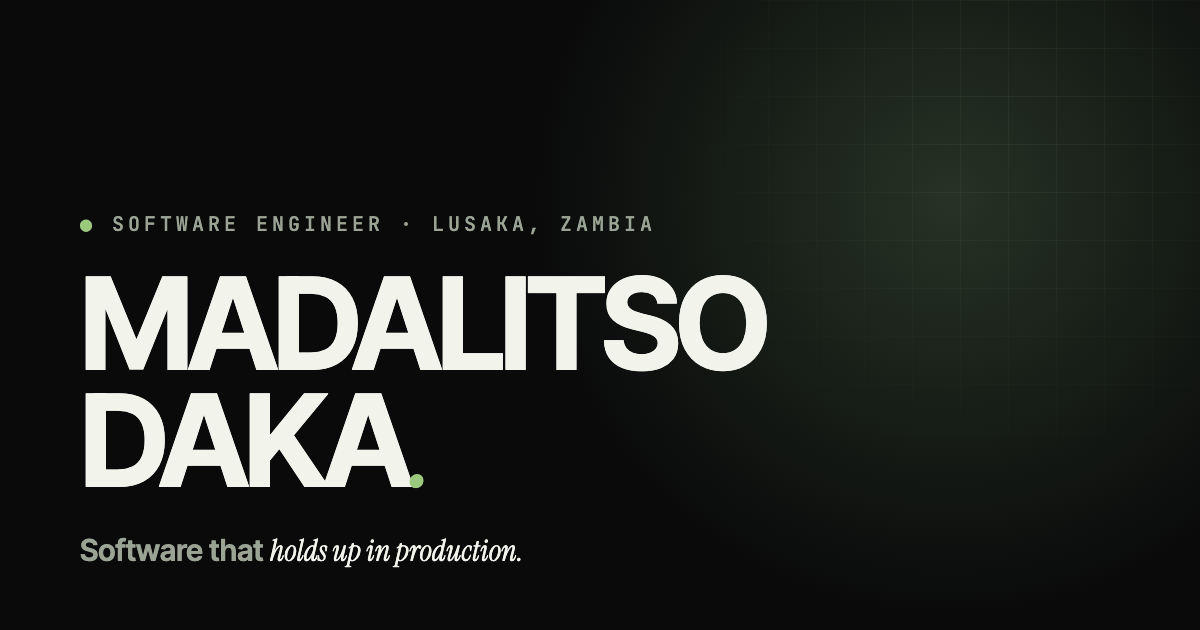
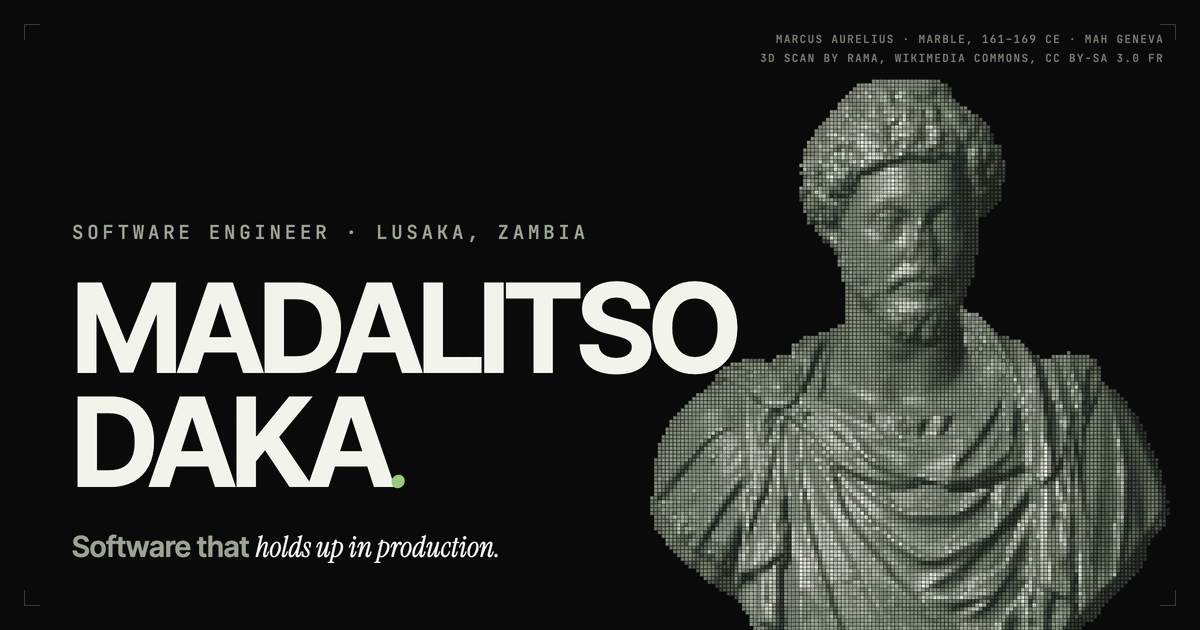
feat: new share image - Marcus Aurelius in etched tiles beside the name
Replaces the glow-and-grid OG card with the site's own language: the
statue drawn from its baked cell map, registration marks, the scan credit
its licence requires. 8-bit PNG, 157 KB (under WhatsApp's preview limit).

diff --git a/scripts/og-template.html b/scripts/og-template.html
@@ -1,4 +1,12 @@
 <!doctype html>
+<!--
+  Share image (public/og.png, 1200x630). The statue is drawn from the baked
+  cell map with the same tile-and-glyph language as the site. It must be
+  served from the site's origin so the canvas can read /statue/marcus.png:
+    cp scripts/og-template.html public/og-template.html   (temporarily)
+    then screenshot http://localhost:4321/og-template.html at 1200x630
+    and delete public/og-template.html again.
+-->
 <html>
 <head>
 <meta charset="utf-8">
@@ -6,41 +14,86 @@
 <style>
   * { margin: 0; box-sizing: border-box; }
   body {
-    width: 1200px; height: 630px; background: #0A0A0B; overflow: hidden;
-    display: flex; flex-direction: column; justify-content: flex-end;
-    padding: 60px 80px; position: relative;
+    width: 1200px; height: 630px; background: #0A0A0B; overflow: hidden; position: relative;
     font-family: 'Inter Tight', sans-serif; color: #F2F4EC;
   }
-  .glow {
-    position: absolute; right: -200px; top: -250px; width: 900px; height: 900px;
-    background: radial-gradient(circle, rgba(40,53,38,0.95), transparent 65%);
-  }
-  .grid {
-    position: absolute; inset: 0;
-    background-image: linear-gradient(rgba(155,201,126,0.07) 1px, transparent 1px),
-      linear-gradient(90deg, rgba(155,201,126,0.07) 1px, transparent 1px);
-    background-size: 48px 48px;
-    -webkit-mask-image: radial-gradient(500px at 85% 20%, black, transparent 70%);
-  }
+  .text { position: absolute; left: 72px; bottom: 64px; z-index: 2; }
   .eyebrow {
-    font-family: 'JetBrains Mono', monospace; font-size: 20px; letter-spacing: 0.2em;
-    color: #9AA394; margin-bottom: 28px; position: relative;
+    font-family: 'JetBrains Mono', monospace; font-size: 19px; letter-spacing: 0.2em;
+    color: #9AA394; margin-bottom: 26px;
   }
-  .eyebrow .dot-lead { color: #9BC97E; }
   h1 {
-    font-size: 128px; font-weight: 700; line-height: 0.92; letter-spacing: -0.045em;
-    text-transform: uppercase; position: relative;
+    font-size: 124px; font-weight: 700; line-height: 0.92; letter-spacing: -0.045em;
+    text-transform: uppercase;
   }
   h1 em { font-family: 'Instrument Serif', serif; font-style: italic; font-weight: 400; color: #9BC97E; text-transform: none; }
-  .sub { margin-top: 28px; font-size: 30px; color: #9AA394; position: relative; }
+  .sub { margin-top: 26px; font-size: 29px; color: #9AA394; }
   .sub em { font-family: 'Instrument Serif', serif; font-style: italic; color: #F2F4EC; }
+  canvas { position: absolute; right: 30px; bottom: 0; width: 520px; height: 600px; }
+  .credit {
+    position: absolute; right: 36px; top: 30px; text-align: right;
+    font-family: 'JetBrains Mono', monospace; font-size: 11px; line-height: 1.7;
+    letter-spacing: 0.12em; color: #767F6D;
+  }
+  /* registration marks, as on the site's nav */
+  .mark { position: absolute; width: 16px; height: 16px; border-color: #3a4036; border-style: solid; border-width: 0; }
+  .tl { left: 24px; top: 24px; border-top-width: 1px; border-left-width: 1px; }
+  .tr { right: 24px; top: 24px; border-top-width: 1px; border-right-width: 1px; }
+  .bl { left: 24px; bottom: 24px; border-bottom-width: 1px; border-left-width: 1px; }
+  .br { right: 24px; bottom: 24px; border-bottom-width: 1px; border-right-width: 1px; }
 </style>
 </head>
 <body>
-  <div class="glow"></div>
-  <div class="grid"></div>
-  <div class="eyebrow"><span class="dot-lead">●</span> SOFTWARE ENGINEER · LUSAKA, ZAMBIA</div>
-  <h1>Madalitso<br>Daka<em>.</em></h1>
-  <div class="sub">Software that <em>holds up in production.</em></div>
+  <span class="mark tl"></span><span class="mark tr"></span><span class="mark bl"></span><span class="mark br"></span>
+  <canvas id="c" width="1040" height="1200"></canvas>
+  <div class="credit">MARCUS AURELIUS · MARBLE, 161–169 CE · MAH GENEVA<br>3D SCAN BY RAMA, WIKIMEDIA COMMONS, CC BY-SA 3.0 FR</div>
+  <div class="text">
+    <div class="eyebrow">SOFTWARE ENGINEER · LUSAKA, ZAMBIA</div>
+    <h1>Madalitso<br>Daka<em>.</em></h1>
+    <div class="sub">Software that <em>holds up in production.</em></div>
+  </div>
+<script>
+(async () => {
+  await document.fonts.ready;
+  const img = await createImageBitmap(await (await fetch("/statue/marcus.png")).blob(), { colorSpaceConversion: "none" });
+  const src = document.createElement("canvas"); src.width = img.width; src.height = img.height;
+  const sctx = src.getContext("2d"); sctx.drawImage(img, 0, 0);
+  const px = sctx.getImageData(0, 0, img.width, img.height).data;
+  const W = img.width, H = img.height;
+  // crop to lit cells
+  let x0 = W, y0 = H, x1 = 0, y1 = 0;
+  for (let y = 0; y < H; y++) for (let x = 0; x < W; x++) if (px[(y * W + x) * 4 + 2]) {
+    x0 = Math.min(x0, x); x1 = Math.max(x1, x); y0 = Math.min(y0, y); y1 = Math.max(y1, y);
+  }
+  const cw = x1 - x0 + 1, ch = y1 - y0 + 1;
+  const c = document.getElementById("c"), ctx = c.getContext("2d");
+  const cell = Math.min(c.width / cw, c.height / ch);
+  const ox = (c.width - cw * cell) / 2, oy = c.height - ch * cell;
+  const L = (() => { const v = [-0.55, 0.55, 0.75]; const m = Math.hypot(...v); return v.map(a => a / m); })();
+  const hv = (() => { const v = [L[0], L[1], L[2] + 1]; const m = Math.hypot(...v); return v.map(a => a / m); })();
+  const lerp = (a, b, t) => a.map((v, i) => Math.round(v + (b[i] - v) * t));
+  const DARK = [20, 26, 19], MID = [111, 123, 101], BONE = [238, 240, 230];
+  const GLYPHS = "+:=*#%o.";
+  ctx.textAlign = "center"; ctx.textBaseline = "middle";
+  ctx.font = `600 ${Math.round(cell * 0.92)}px 'JetBrains Mono', monospace`;
+  const gap = Math.max(1, cell * 0.1);
+  for (let y = 0; y < ch; y++) for (let x = 0; x < cw; x++) {
+    const o = ((y + y0) * W + x + x0) * 4;
+    const tone = px[o + 2] / 255; if (!tone) continue;
+    const nx = (px[o] - 128) / 127, ny = (px[o + 1] - 128) / 127, nz = Math.sqrt(Math.max(0, 1 - nx * nx - ny * ny));
+    const d = Math.max(0, nx * L[0] + ny * L[1] + nz * L[2]);
+    const s = Math.max(0, nx * hv[0] + ny * hv[1] + nz * hv[2]);
+    const v = Math.min(1, tone * (0.14 + 0.86 * d) + Math.pow(s, 28) * 0.55 * tone);
+    if (v < 0.04) continue;
+    const base = v < 0.45 ? lerp(DARK, MID, v / 0.45) : lerp(MID, BONE, (v - 0.45) / 0.55);
+    const ink = v > 0.55 ? lerp(base, DARK, 0.42) : lerp(base, BONE, 0.22);
+    const X = ox + x * cell, Y = oy + y * cell;
+    ctx.fillStyle = `rgb(${base})`; ctx.fillRect(X + gap / 2, Y + gap / 2, cell - gap, cell - gap);
+    ctx.fillStyle = `rgb(${ink})`;
+    ctx.fillText(GLYPHS[((y * cw + x) * 2654435761 >>> 0) % GLYPHS.length], X + cell / 2, Y + cell / 2 + cell * 0.04);
+  }
+  document.body.dataset.ready = "1";
+})();
+</script>
 </body>
 </html>

diff --git a/README.md b/README.md
@@ -37,7 +37,7 @@ lives in the components. No CMS.
 | Footer NOW line | `src/components/Footer.tsx` |
 | Case-study pages (/work/…) | `case` blocks in `src/content/stories.ts` |
 | Statues (hero, Work, Claims, Method, Education, footer, /cv, case pages, 404) | `src/content/statues.ts` + baked maps in `public/statue/` (see below) |
-| OG share image | regenerate: edit `scripts/og-template.html`, then `node scripts/screenshot.mjs "file://$PWD/scripts/og-template.html" public/og.png '' 1200 630 3000` |
+| OG share image | regenerate: `scripts/og-template.html` draws the statue from `public/statue/marcus.png`; serve both from one origin (e.g. a temp folder with `og.html` + `statue/marcus.png` under `python3 -m http.server`), screenshot at 1200x630, save as an 8-bit PNG under ~300 KB to `public/og.png` |
 
 **Content rules** (from PROJECT_PLAN.md): never invent numbers, ratings or
 client names; NDA work is described by sector and scale only; no emojis
